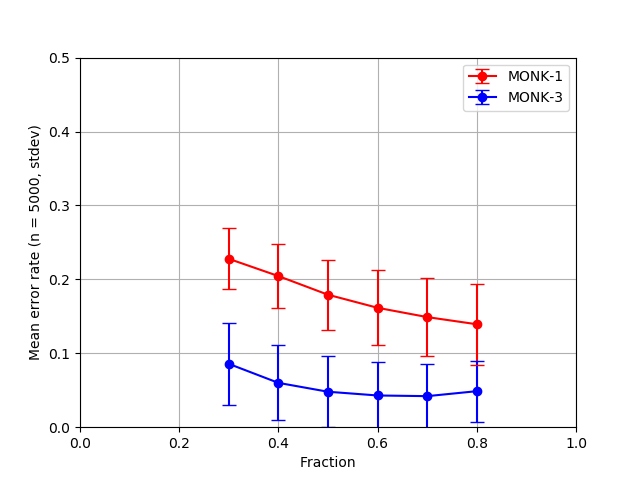
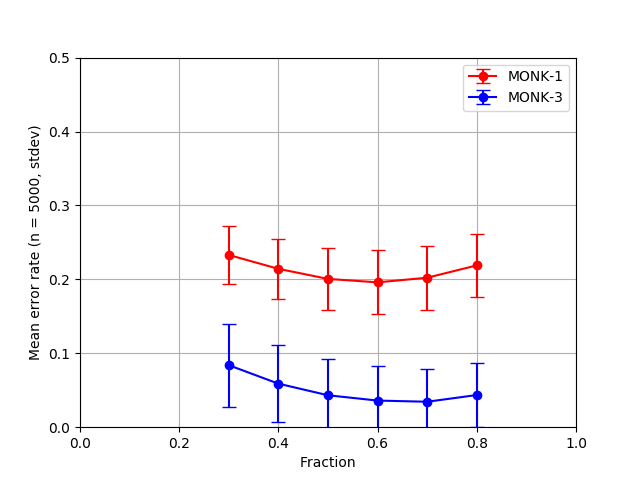
fixed less than

diff --git a/lab1.py b/lab1.py
@@ -188,14 +188,13 @@ def prune(traintree, valtree):
         trees.append(pruned[i])
         chosentree.append(d.check(pruned[i], valtree))
         #print(d.check(pruned[i], valtree))
-    if status < max(chosentree):
+        print(chosentree)
+    if status <= max(chosentree):
         #print(str(status) + " is less than " + str(max(chosentree)))
         #print("now pruning tree nr: " + str(chosentree.index(max(chosentree))))
         return prune(trees[chosentree.index(max(chosentree))], valtree)
     else:
         return traintree
-
-
 
 #print(prune(monk1traintree))
 plotresult = []
